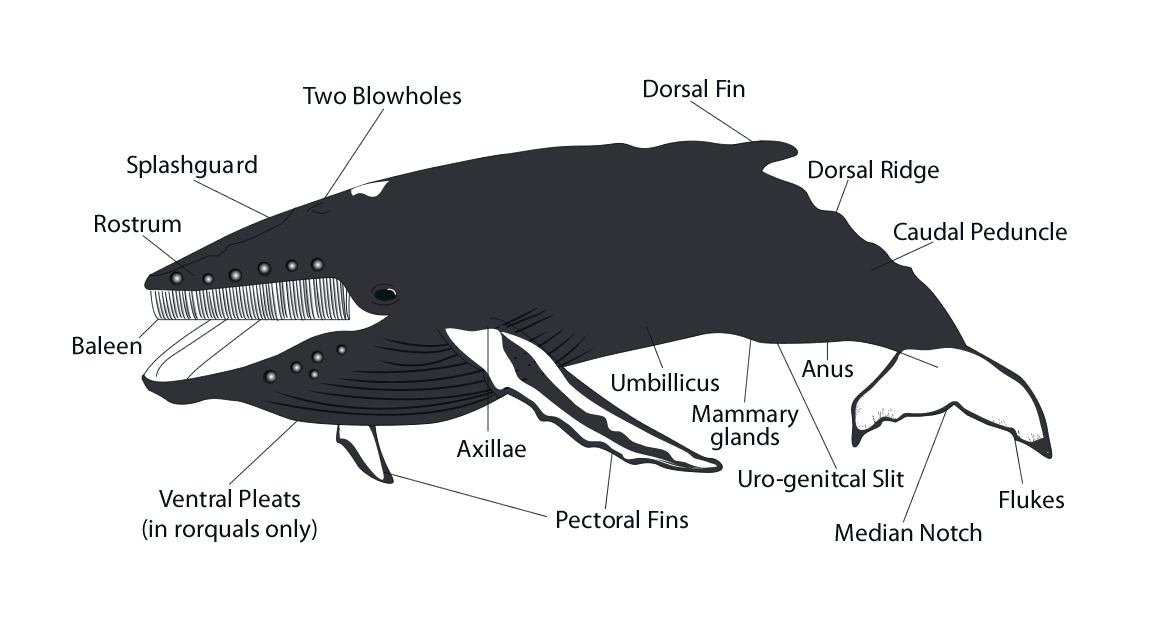
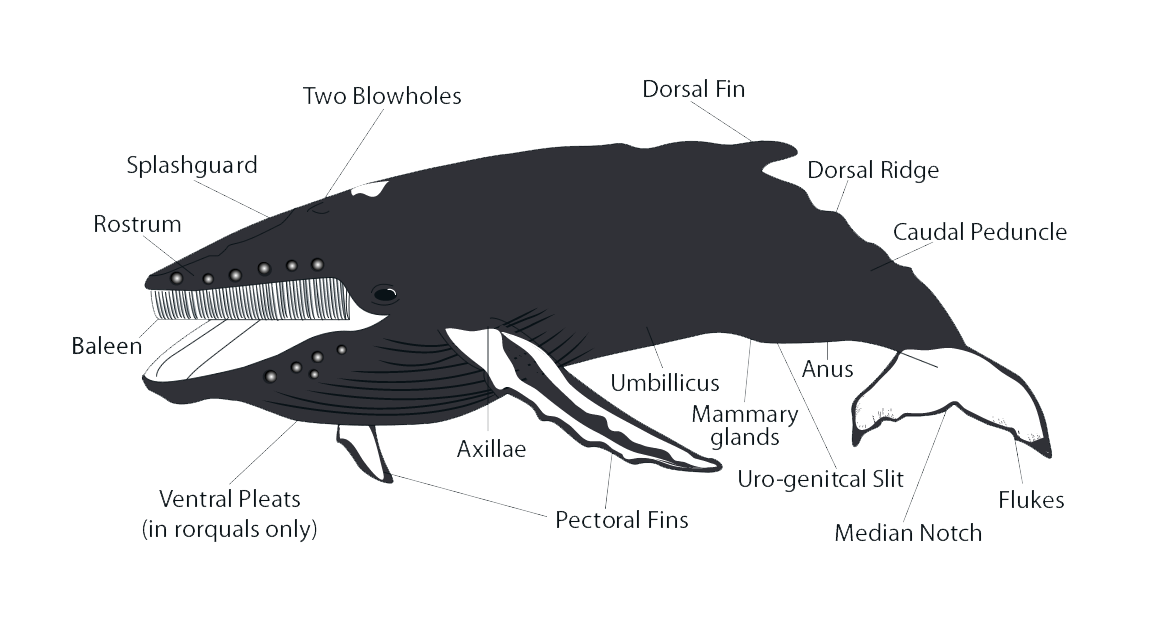
fix image - white BG

diff --git a/index.html b/index.html
@@ -53,9 +53,9 @@
          <div class="col-xs-12 col-md-4"> 
         <div class="boxHelper">
           <section id="overview">
-            <h2 class="title">Overview</h2>
+            <h2 class="title">Whale of the Week</h2>
 
-              <p>Here we give a basic illustration of a whale.</p> <img src="images/whale-anatomny.png" alt="">
+              <p>Here we give a basic illustration of a Baleen Whale.</p> <img src="images/whale-anatomny.png" alt="baleen whale anatomy">
                 </section>
           </div>
         </div>

diff --git a/css/main.css b/css/main.css
@@ -167,7 +167,7 @@ p
 
 #overview img 
 {
-	width: 300px;
+	width: 100%;
 }
 
 .mainFooter
